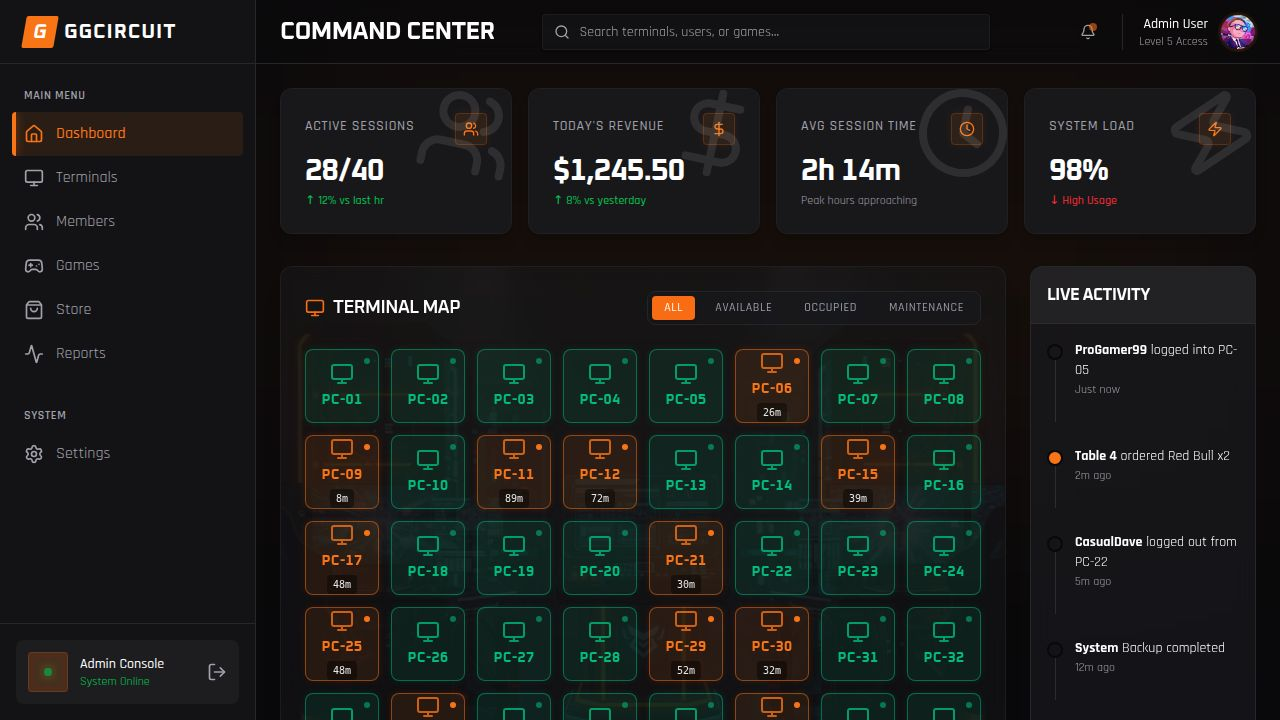
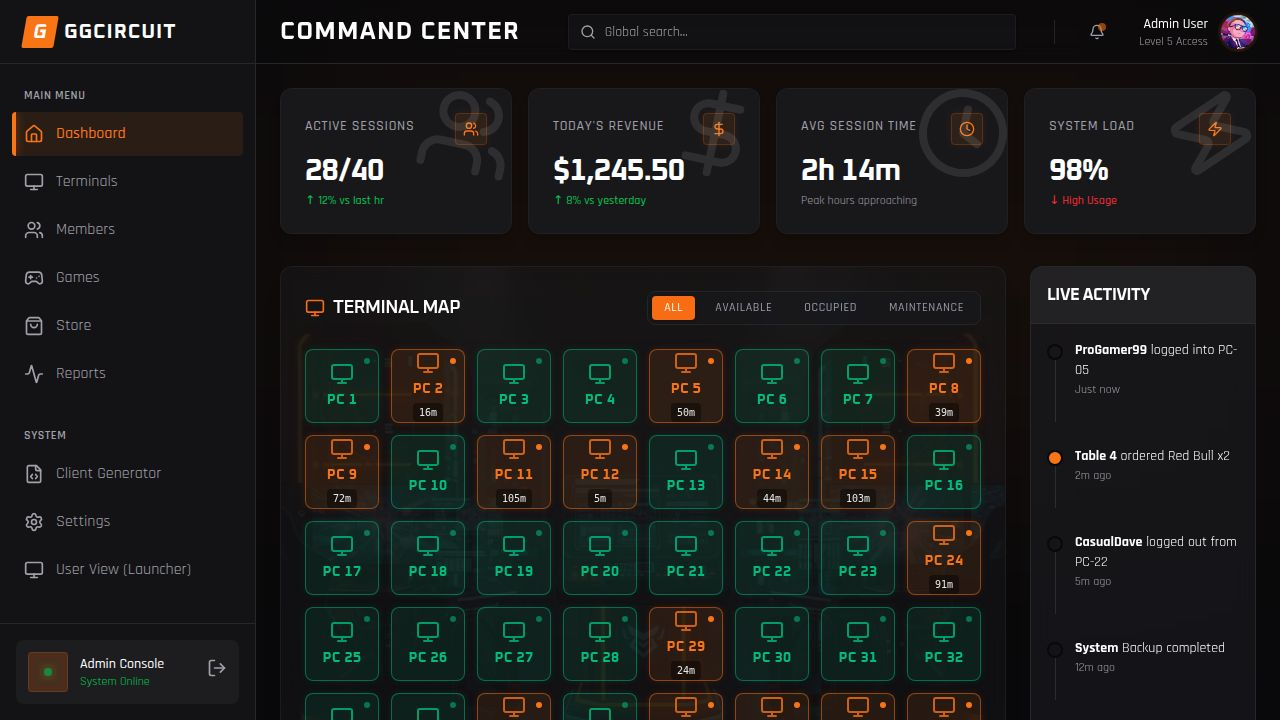
Add a dedicated user view launcher for customers to access games
Add a new route and component for the client launcher, and integrate it into the sidebar navigation.

Replit-Commit-Author: Agent
Replit-Commit-Session-Id: 72400b9e-9b7d-4fd8-b033-bd253f07e449
Replit-Commit-Checkpoint-Type: full_checkpoint
Replit-Commit-Event-Id: d7d245e6-deb5-4631-8213-833270c1e051
Replit-Commit-Screenshot-Url: https://storage.googleapis.com/screenshot-production-us-central1/d12e8f85-0d4d-4f73-983a-615dcf2e1d1a/72400b9e-9b7d-4fd8-b033-bd253f07e449/ZSut5p9
Replit-Helium-Checkpoint-Created: true

diff --git a/client/src/pages/launcher.tsx b/client/src/pages/launcher.tsx
@@ -1,0 +1,277 @@
+import { useState, useEffect } from "react";
+import { cn } from "@/lib/utils";
+import { Button } from "@/components/ui/button";
+import { ScrollArea } from "@/components/ui/scroll-area";
+import { Tabs, TabsContent, TabsList, TabsTrigger } from "@/components/ui/tabs";
+import { Avatar, AvatarFallback, AvatarImage } from "@/components/ui/avatar";
+import { Progress } from "@/components/ui/progress";
+import { Dialog, DialogContent, DialogTrigger } from "@/components/ui/dialog";
+import { 
+  Gamepad2, Clock, DollarSign, ShoppingCart, 
+  LogOut, Bell, Wifi, Volume2, Search, Play, 
+  Utensils, AlertTriangle, User, Lock
+} from "lucide-react";
+import { Input } from "@/components/ui/input";
+import { toast } from "@/hooks/use-toast";
+import generatedImage from '@assets/generated_images/futuristic_gaming_cafe_interior_concept_art.png';
+
+// Mock Data
+const games = [
+  { id: 1, name: "Valorant", category: "FPS", image: "https://images.unsplash.com/photo-1624138784181-dc7f5b75e52d?q=80&w=1000&auto=format&fit=crop" },
+  { id: 2, name: "League of Legends", category: "MOBA", image: "https://images.unsplash.com/photo-1542751371-adc38448a05e?q=80&w=1000&auto=format&fit=crop" },
+  { id: 3, name: "Counter-Strike 2", category: "FPS", image: "https://images.unsplash.com/photo-1605901309584-818e25960b8f?q=80&w=1000&auto=format&fit=crop" },
+  { id: 4, name: "Apex Legends", category: "Battle Royale", image: "https://images.unsplash.com/photo-1542751110-97427bbecf20?q=80&w=1000&auto=format&fit=crop" },
+  { id: 5, name: "Dota 2", category: "MOBA", image: "https://images.unsplash.com/photo-1509198397868-475647b2a1e5?q=80&w=1000&auto=format&fit=crop" },
+  { id: 6, name: "Fortnite", category: "Battle Royale", image: "https://images.unsplash.com/photo-1589241062272-c0a000071964?q=80&w=1000&auto=format&fit=crop" },
+  { id: 7, name: "Minecraft", category: "Sandbox", image: "https://images.unsplash.com/photo-1607522370275-f14206abe5d3?q=80&w=1000&auto=format&fit=crop" },
+  { id: 8, name: "Rocket League", category: "Sports", image: "https://images.unsplash.com/photo-1509198397868-475647b2a1e5?q=80&w=1000&auto=format&fit=crop" },
+];
+
+const foodMenu = [
+  { id: 1, name: "Red Bull", price: 4.50, image: "⚡" },
+  { id: 2, name: "Pizza Slice", price: 3.00, image: "🍕" },
+  { id: 3, name: "Nachos", price: 6.50, image: "🧀" },
+  { id: 4, name: "Coke", price: 2.50, image: "🥤" },
+];
+
+export default function Launcher() {
+  const [currentTime, setCurrentTime] = useState(new Date());
+  const [isLocked, setIsLocked] = useState(false);
+  const [sessionTime, setSessionTime] = useState(120); // Minutes remaining
+
+  useEffect(() => {
+    const timer = setInterval(() => setCurrentTime(new Date()), 1000);
+    return () => clearInterval(timer);
+  }, []);
+
+  const handleLaunch = (gameName: string) => {
+    toast({
+      title: "Launching Game",
+      description: `Starting ${gameName}... Please wait.`,
+    });
+  };
+
+  const handleOrder = (item: string) => {
+    toast({
+      title: "Order Placed",
+      description: `${item} will be delivered to your terminal shortly.`,
+    });
+  };
+
+  const handleLock = () => {
+    setIsLocked(true);
+  };
+
+  const handleUnlock = () => {
+    setIsLocked(false);
+  };
+
+  if (isLocked) {
+    return (
+      <div className="h-screen w-screen bg-black relative overflow-hidden flex items-center justify-center font-display">
+        <div 
+          className="absolute inset-0 opacity-40 blur-sm"
+          style={{ 
+            backgroundImage: `url(${generatedImage})`, 
+            backgroundSize: 'cover', 
+            backgroundPosition: 'center' 
+          }} 
+        />
+        <div className="absolute inset-0 bg-black/60 z-10" />
+        
+        <div className="z-20 text-center space-y-6 animate-in fade-in zoom-in duration-500">
+          <div className="h-24 w-24 bg-primary rounded-xl mx-auto flex items-center justify-center mb-6 shadow-[0_0_50px_rgba(255,107,0,0.5)]">
+             <Lock className="h-10 w-10 text-white" />
+          </div>
+          <h1 className="text-5xl font-bold text-white tracking-widest">TERMINAL LOCKED</h1>
+          <p className="text-xl text-primary font-mono">Session Paused</p>
+          <Button 
+            size="lg" 
+            className="bg-white text-black hover:bg-white/90 font-bold text-lg px-8 py-6 rounded-full"
+            onClick={handleUnlock}
+          >
+            RESUME SESSION
+          </Button>
+        </div>
+        
+        <div className="absolute bottom-8 left-8 z-20 text-white/50 font-mono">
+           PC-08 • GGCIRCUIT CLIENT v2.4
+        </div>
+      </div>
+    );
+  }
+
+  return (
+    <div className="h-screen w-screen bg-background overflow-hidden flex flex-col font-body selection:bg-primary/30">
+      {/* Top Bar */}
+      <header className="h-16 bg-card/80 backdrop-blur-md border-b border-white/10 flex items-center justify-between px-6 z-50 shrink-0">
+        <div className="flex items-center gap-6">
+          <div className="flex items-center gap-2">
+            <div className="h-8 w-8 bg-primary rounded flex items-center justify-center text-white font-bold font-display skew-x-[-10deg]">G</div>
+            <span className="font-display font-bold text-xl text-white tracking-widest hidden md:inline">GGCIRCUIT</span>
+          </div>
+          <div className="h-8 w-px bg-white/10" />
+          <div className="flex items-center gap-2 text-white/80 font-mono text-sm">
+             <Clock className="h-4 w-4 text-primary" />
+             <span>{currentTime.toLocaleTimeString()}</span>
+          </div>
+        </div>
+
+        <div className="flex items-center gap-4">
+          <div className="flex items-center gap-4 bg-black/20 rounded-full px-4 py-1.5 border border-white/5">
+             <div className="flex flex-col items-end">
+                <span className="text-[10px] text-muted-foreground uppercase tracking-wider font-bold">Time Left</span>
+                <span className="text-sm font-bold text-white font-mono leading-none">02:00:00</span>
+             </div>
+             <div className="h-8 w-px bg-white/10" />
+             <div className="flex flex-col items-end">
+                <span className="text-[10px] text-muted-foreground uppercase tracking-wider font-bold">Balance</span>
+                <span className="text-sm font-bold text-emerald-400 font-mono leading-none">$24.50</span>
+             </div>
+          </div>
+
+          <div className="flex items-center gap-2">
+             <Button size="icon" variant="ghost" className="text-white/70 hover:text-white hover:bg-white/10 rounded-full">
+               <Volume2 className="h-5 w-5" />
+             </Button>
+             <Button size="icon" variant="ghost" className="text-white/70 hover:text-white hover:bg-white/10 rounded-full">
+               <Wifi className="h-5 w-5" />
+             </Button>
+             <Button 
+                size="sm" 
+                variant="destructive" 
+                className="rounded-full px-4 font-bold tracking-wide"
+                onClick={handleLock}
+             >
+               <Lock className="h-3 w-3 mr-2" /> LOCK
+             </Button>
+          </div>
+        </div>
+      </header>
+
+      {/* Main Content Area */}
+      <div className="flex-1 flex overflow-hidden">
+        
+        {/* Sidebar Nav */}
+        <div className="w-20 bg-card border-r border-white/10 flex flex-col items-center py-6 gap-6 z-40">
+           <Button variant="ghost" size="icon" className="h-12 w-12 rounded-xl bg-primary/10 text-primary mb-4 shadow-[0_0_15px_rgba(255,107,0,0.3)]">
+             <Gamepad2 className="h-6 w-6" />
+           </Button>
+           <Button variant="ghost" size="icon" className="h-12 w-12 rounded-xl text-muted-foreground hover:bg-white/10 hover:text-white transition-all">
+             <Utensils className="h-6 w-6" />
+           </Button>
+           <Button variant="ghost" size="icon" className="h-12 w-12 rounded-xl text-muted-foreground hover:bg-white/10 hover:text-white transition-all">
+             <ShoppingCart className="h-6 w-6" />
+           </Button>
+           <Button variant="ghost" size="icon" className="h-12 w-12 rounded-xl text-muted-foreground hover:bg-white/10 hover:text-white transition-all">
+             <User className="h-6 w-6" />
+           </Button>
+           <div className="flex-1" />
+           <Button variant="ghost" size="icon" className="h-12 w-12 rounded-xl text-muted-foreground hover:bg-white/10 hover:text-white transition-all">
+             <AlertTriangle className="h-6 w-6" />
+           </Button>
+        </div>
+
+        {/* Hero & Grid */}
+        <div className="flex-1 overflow-y-auto custom-scrollbar bg-gradient-to-br from-background via-background to-black p-8 relative">
+           
+           {/* Ambient Background Effect */}
+           <div className="absolute top-0 left-0 w-full h-[600px] bg-primary/5 blur-[150px] pointer-events-none" />
+
+           {/* Hero Section */}
+           <div className="relative h-[300px] rounded-2xl overflow-hidden mb-10 group border border-white/10 shadow-2xl">
+              <div 
+                className="absolute inset-0 transition-transform duration-1000 group-hover:scale-105"
+                style={{ 
+                  backgroundImage: `url(${generatedImage})`, 
+                  backgroundSize: 'cover', 
+                  backgroundPosition: 'center' 
+                }} 
+              />
+              <div className="absolute inset-0 bg-gradient-to-t from-black via-black/50 to-transparent" />
+              <div className="absolute bottom-0 left-0 p-8">
+                 <div className="inline-block px-3 py-1 bg-primary text-white text-xs font-bold rounded mb-2 uppercase tracking-wider">Featured Event</div>
+                 <h2 className="text-4xl font-display font-bold text-white mb-2">Weekend Tournament</h2>
+                 <p className="text-gray-300 max-w-xl mb-6">Join the server-wide 5v5 battle this Saturday. Prize pool includes 100 hours of game time and exclusive skins.</p>
+                 <Button className="bg-white text-black hover:bg-gray-200 font-bold px-8">REGISTER NOW</Button>
+              </div>
+           </div>
+
+           {/* Games Grid */}
+           <div className="mb-6 flex items-center justify-between">
+              <h3 className="text-2xl font-display font-bold text-white flex items-center gap-2">
+                 <Gamepad2 className="h-6 w-6 text-primary" />
+                 Library
+              </h3>
+              <div className="relative w-64">
+                 <Search className="absolute left-3 top-1/2 -translate-y-1/2 h-4 w-4 text-muted-foreground" />
+                 <Input placeholder="Find a game..." className="pl-9 bg-white/5 border-white/10 rounded-full focus:border-primary/50" />
+              </div>
+           </div>
+
+           <div className="grid grid-cols-2 md:grid-cols-3 lg:grid-cols-4 xl:grid-cols-5 gap-6">
+              {games.map((game) => (
+                <div 
+                  key={game.id} 
+                  className="group relative aspect-[3/4] bg-card rounded-xl overflow-hidden border border-white/5 shadow-lg hover:border-primary/50 hover:shadow-[0_0_20px_rgba(255,107,0,0.2)] transition-all cursor-pointer"
+                  onClick={() => handleLaunch(game.name)}
+                >
+                   {/* Placeholder Image Gradient since we don't have real covers for all */}
+                   <div className="absolute inset-0 bg-gradient-to-br from-zinc-800 to-zinc-900 group-hover:scale-110 transition-transform duration-500">
+                      {/* Would be real image here */}
+                      <div className="flex items-center justify-center h-full text-white/5 font-display font-bold text-4xl rotate-12 uppercase">
+                        {game.category}
+                      </div>
+                   </div>
+                   
+                   <div className="absolute inset-0 bg-gradient-to-t from-black via-transparent to-transparent opacity-80" />
+                   
+                   <div className="absolute bottom-0 left-0 p-4 w-full">
+                      <p className="text-xs text-primary font-bold mb-1 uppercase tracking-wider">{game.category}</p>
+                      <h4 className="text-white font-bold text-lg leading-tight group-hover:text-primary transition-colors">{game.name}</h4>
+                   </div>
+
+                   {/* Hover Play Button */}
+                   <div className="absolute inset-0 flex items-center justify-center opacity-0 group-hover:opacity-100 transition-opacity duration-300 bg-black/40 backdrop-blur-sm">
+                      <div className="h-16 w-16 bg-primary rounded-full flex items-center justify-center shadow-lg transform scale-50 group-hover:scale-100 transition-transform">
+                         <Play className="h-8 w-8 text-white ml-1" fill="white" />
+                      </div>
+                   </div>
+                </div>
+              ))}
+           </div>
+           
+           {/* Quick Food Order Strip */}
+           <div className="mt-12 mb-6">
+              <h3 className="text-xl font-display font-bold text-white mb-4 flex items-center gap-2">
+                 <Utensils className="h-5 w-5 text-primary" />
+                 Fuel Up
+              </h3>
+              <div className="grid grid-cols-2 md:grid-cols-4 gap-4">
+                 {foodMenu.map((item) => (
+                   <div 
+                      key={item.id} 
+                      className="bg-card/50 border border-white/5 rounded-lg p-3 flex items-center gap-3 hover:bg-white/5 cursor-pointer transition-colors group"
+                      onClick={() => handleOrder(item.name)}
+                    >
+                      <div className="h-10 w-10 bg-white/10 rounded-full flex items-center justify-center text-xl">
+                         {item.image}
+                      </div>
+                      <div className="flex-1">
+                         <p className="text-white font-bold text-sm group-hover:text-primary transition-colors">{item.name}</p>
+                         <p className="text-muted-foreground text-xs">${item.price.toFixed(2)}</p>
+                      </div>
+                      <Button size="icon" variant="ghost" className="h-8 w-8 text-primary opacity-0 group-hover:opacity-100 transition-opacity">
+                         <ShoppingCart className="h-4 w-4" />
+                      </Button>
+                   </div>
+                 ))}
+              </div>
+           </div>
+
+        </div>
+
+      </div>
+    </div>
+  );
+}

diff --git a/client/src/components/layout/sidebar.tsx b/client/src/components/layout/sidebar.tsx
@@ -73,6 +73,14 @@ export function Sidebar() {
             <Settings className="h-5 w-5" />
             <span>Settings</span>
         </Link>
+        <Link 
+          href="/launcher"
+          target="_blank"
+          className="flex items-center gap-3 px-3 py-2.5 rounded-md text-muted-foreground hover:bg-sidebar-accent hover:text-white transition-colors"
+        >
+            <Monitor className="h-5 w-5" />
+            <span>User View (Launcher)</span>
+        </Link>
       </div>
 
       <div className="p-4 border-t border-sidebar-border">

diff --git a/client/src/App.tsx b/client/src/App.tsx
@@ -13,11 +13,13 @@ import Reports from "@/pages/reports";
 import Settings from "@/pages/settings";
 import ClientGenerator from "@/pages/client-generator";
 import Login from "@/pages/login";
+import Launcher from "@/pages/launcher";
 
 function Router() {
   return (
     <Switch>
       <Route path="/login" component={Login} />
+      <Route path="/launcher" component={Launcher} />
       <Route path="/" component={Dashboard} />
       <Route path="/terminals" component={Terminals} />
       <Route path="/members" component={Members} />
